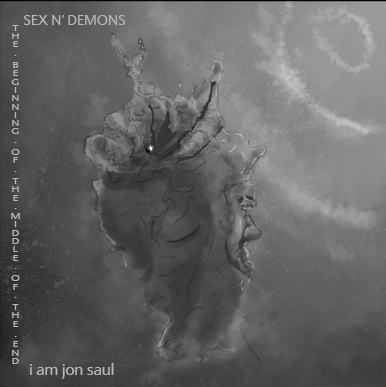
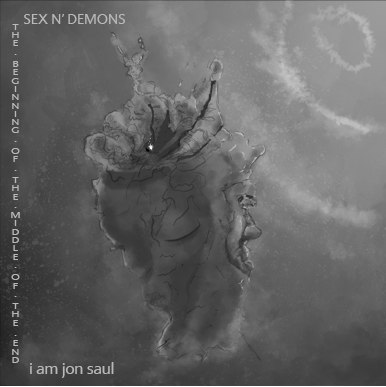
change art name

diff --git a/index.html b/index.html
@@ -13,7 +13,7 @@
       <div id="theatre-mode">
         <img
           class="media-player-image"
-          src="./pics/jonSaulArtMAYBE.png"
+          src="./pics/jonSaulArt.png"
           alt=""
           srcset=""
         />

diff --git a/styles.css b/styles.css
@@ -137,6 +137,7 @@ h4 {
 }
 
 #theatre-mode-bottom {
+  will-change: opacity;
   transition: all 1s ease-out;
 }
 
